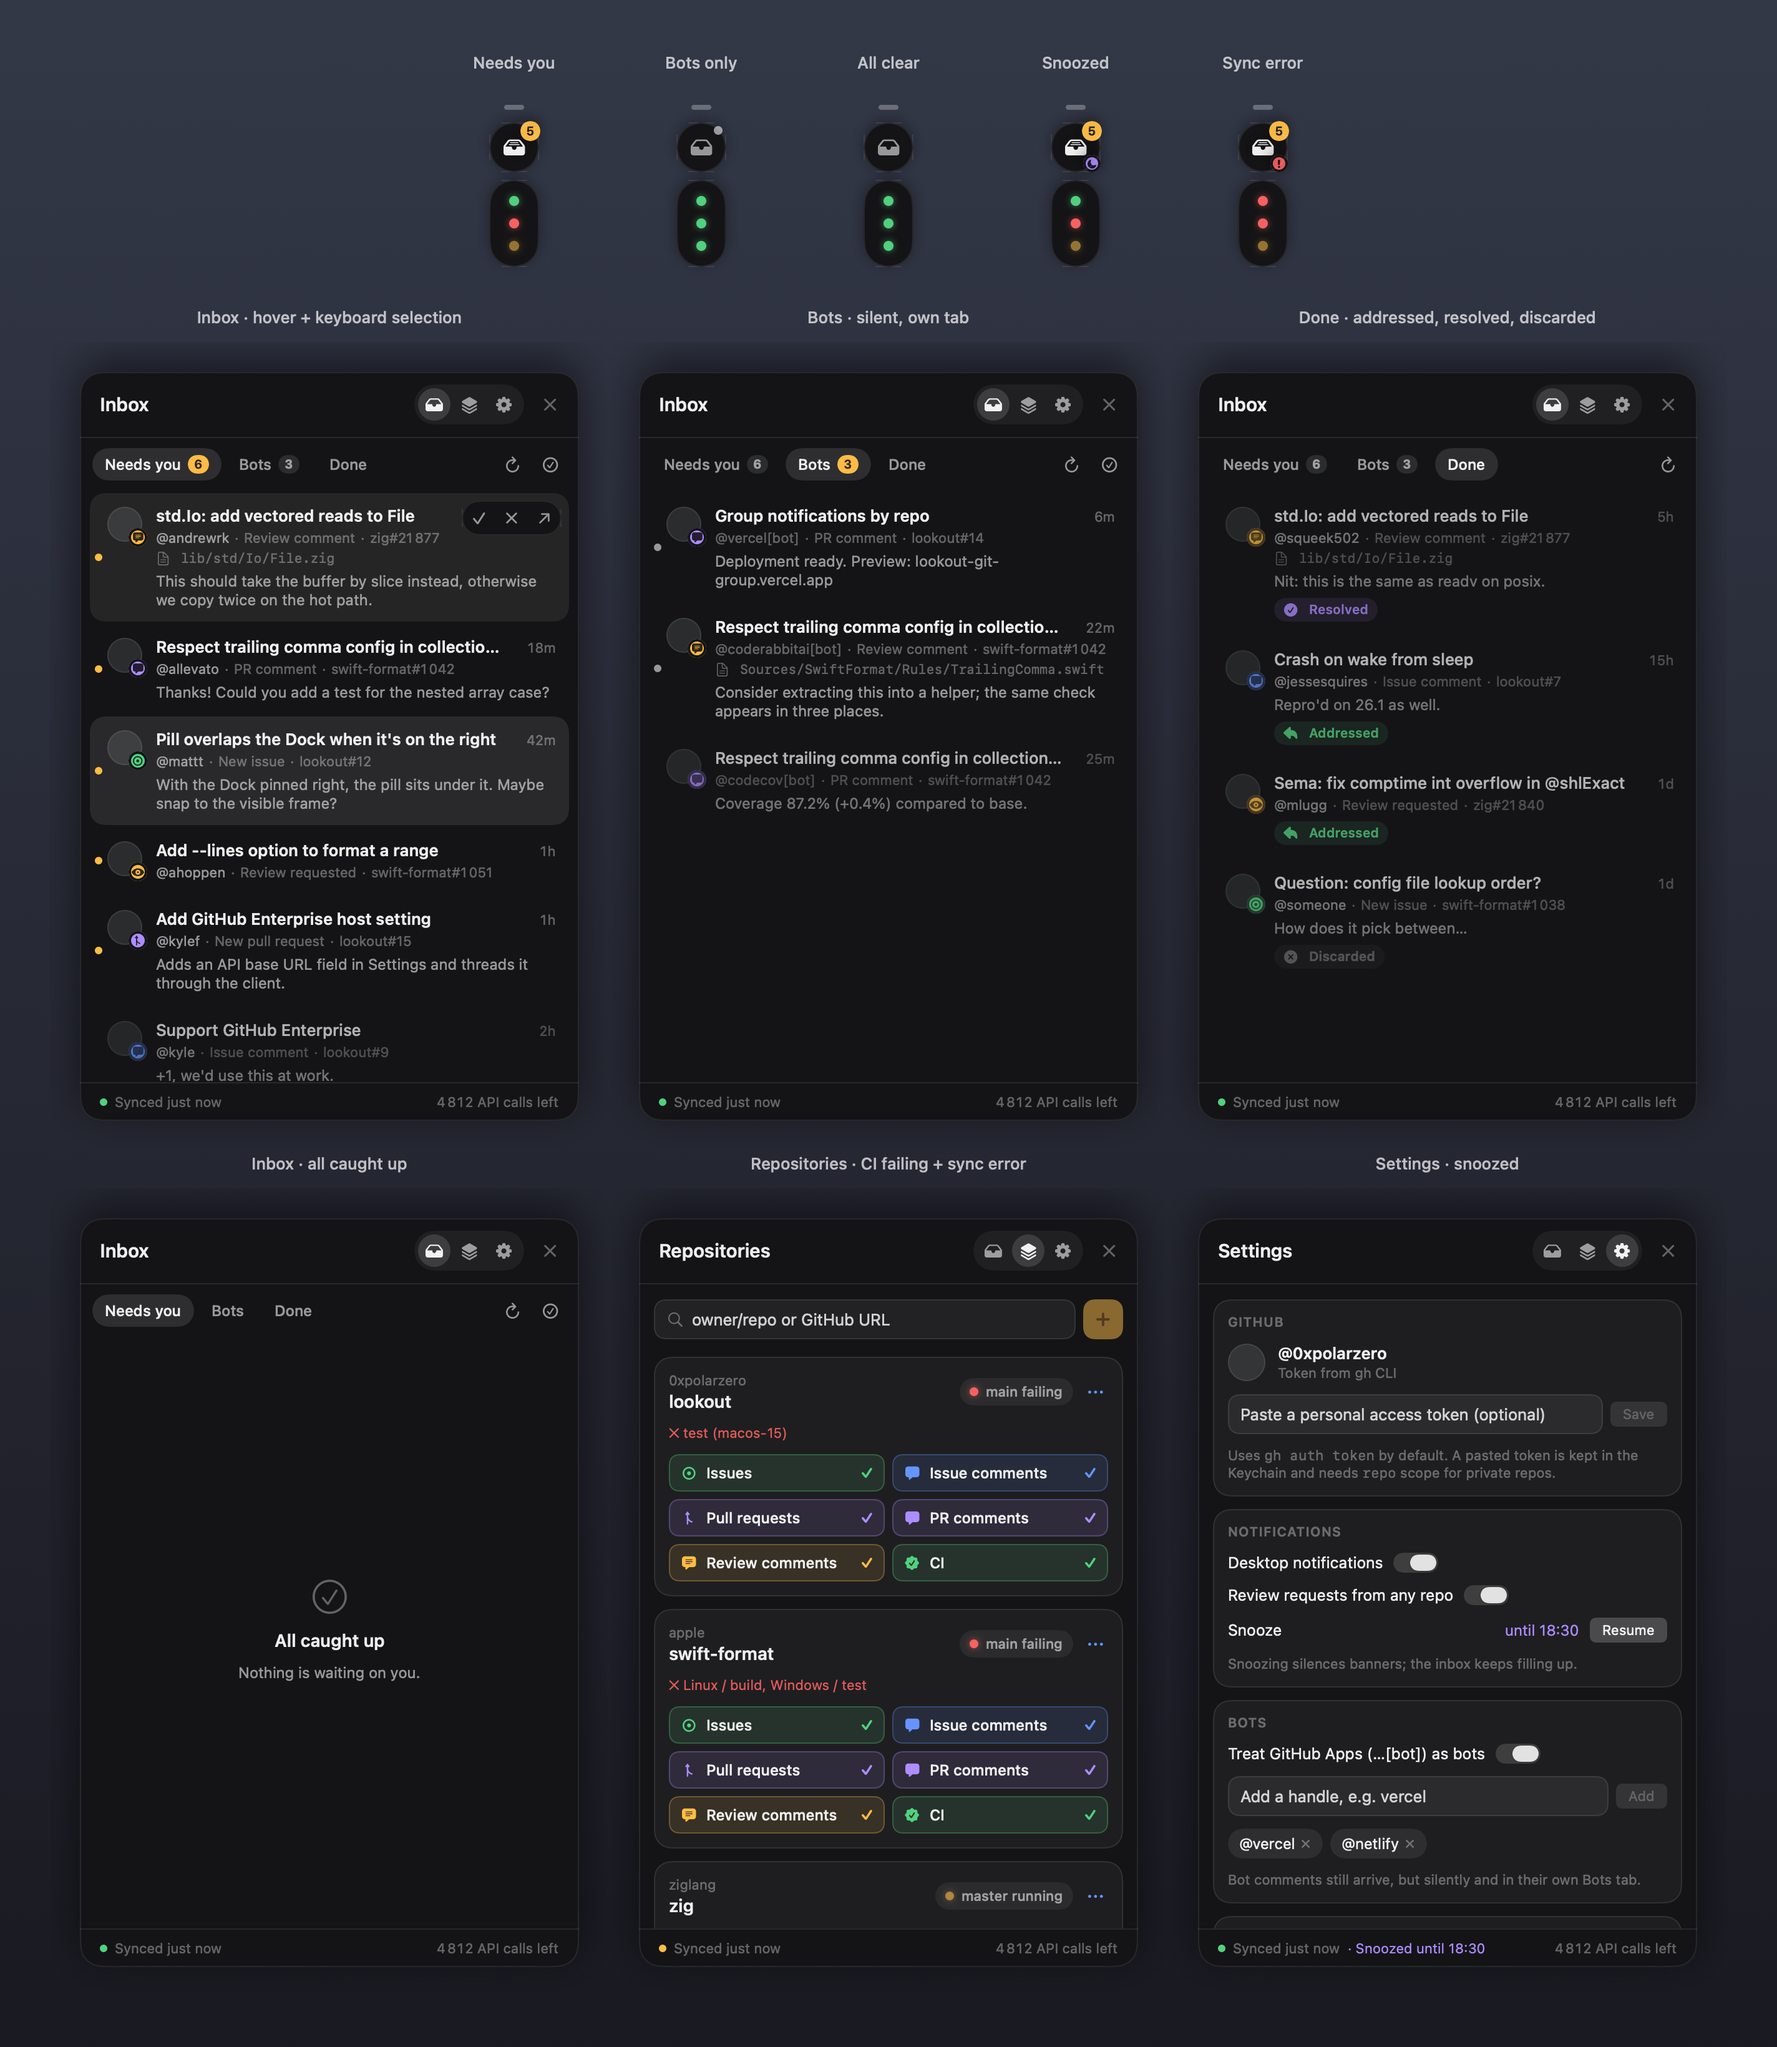
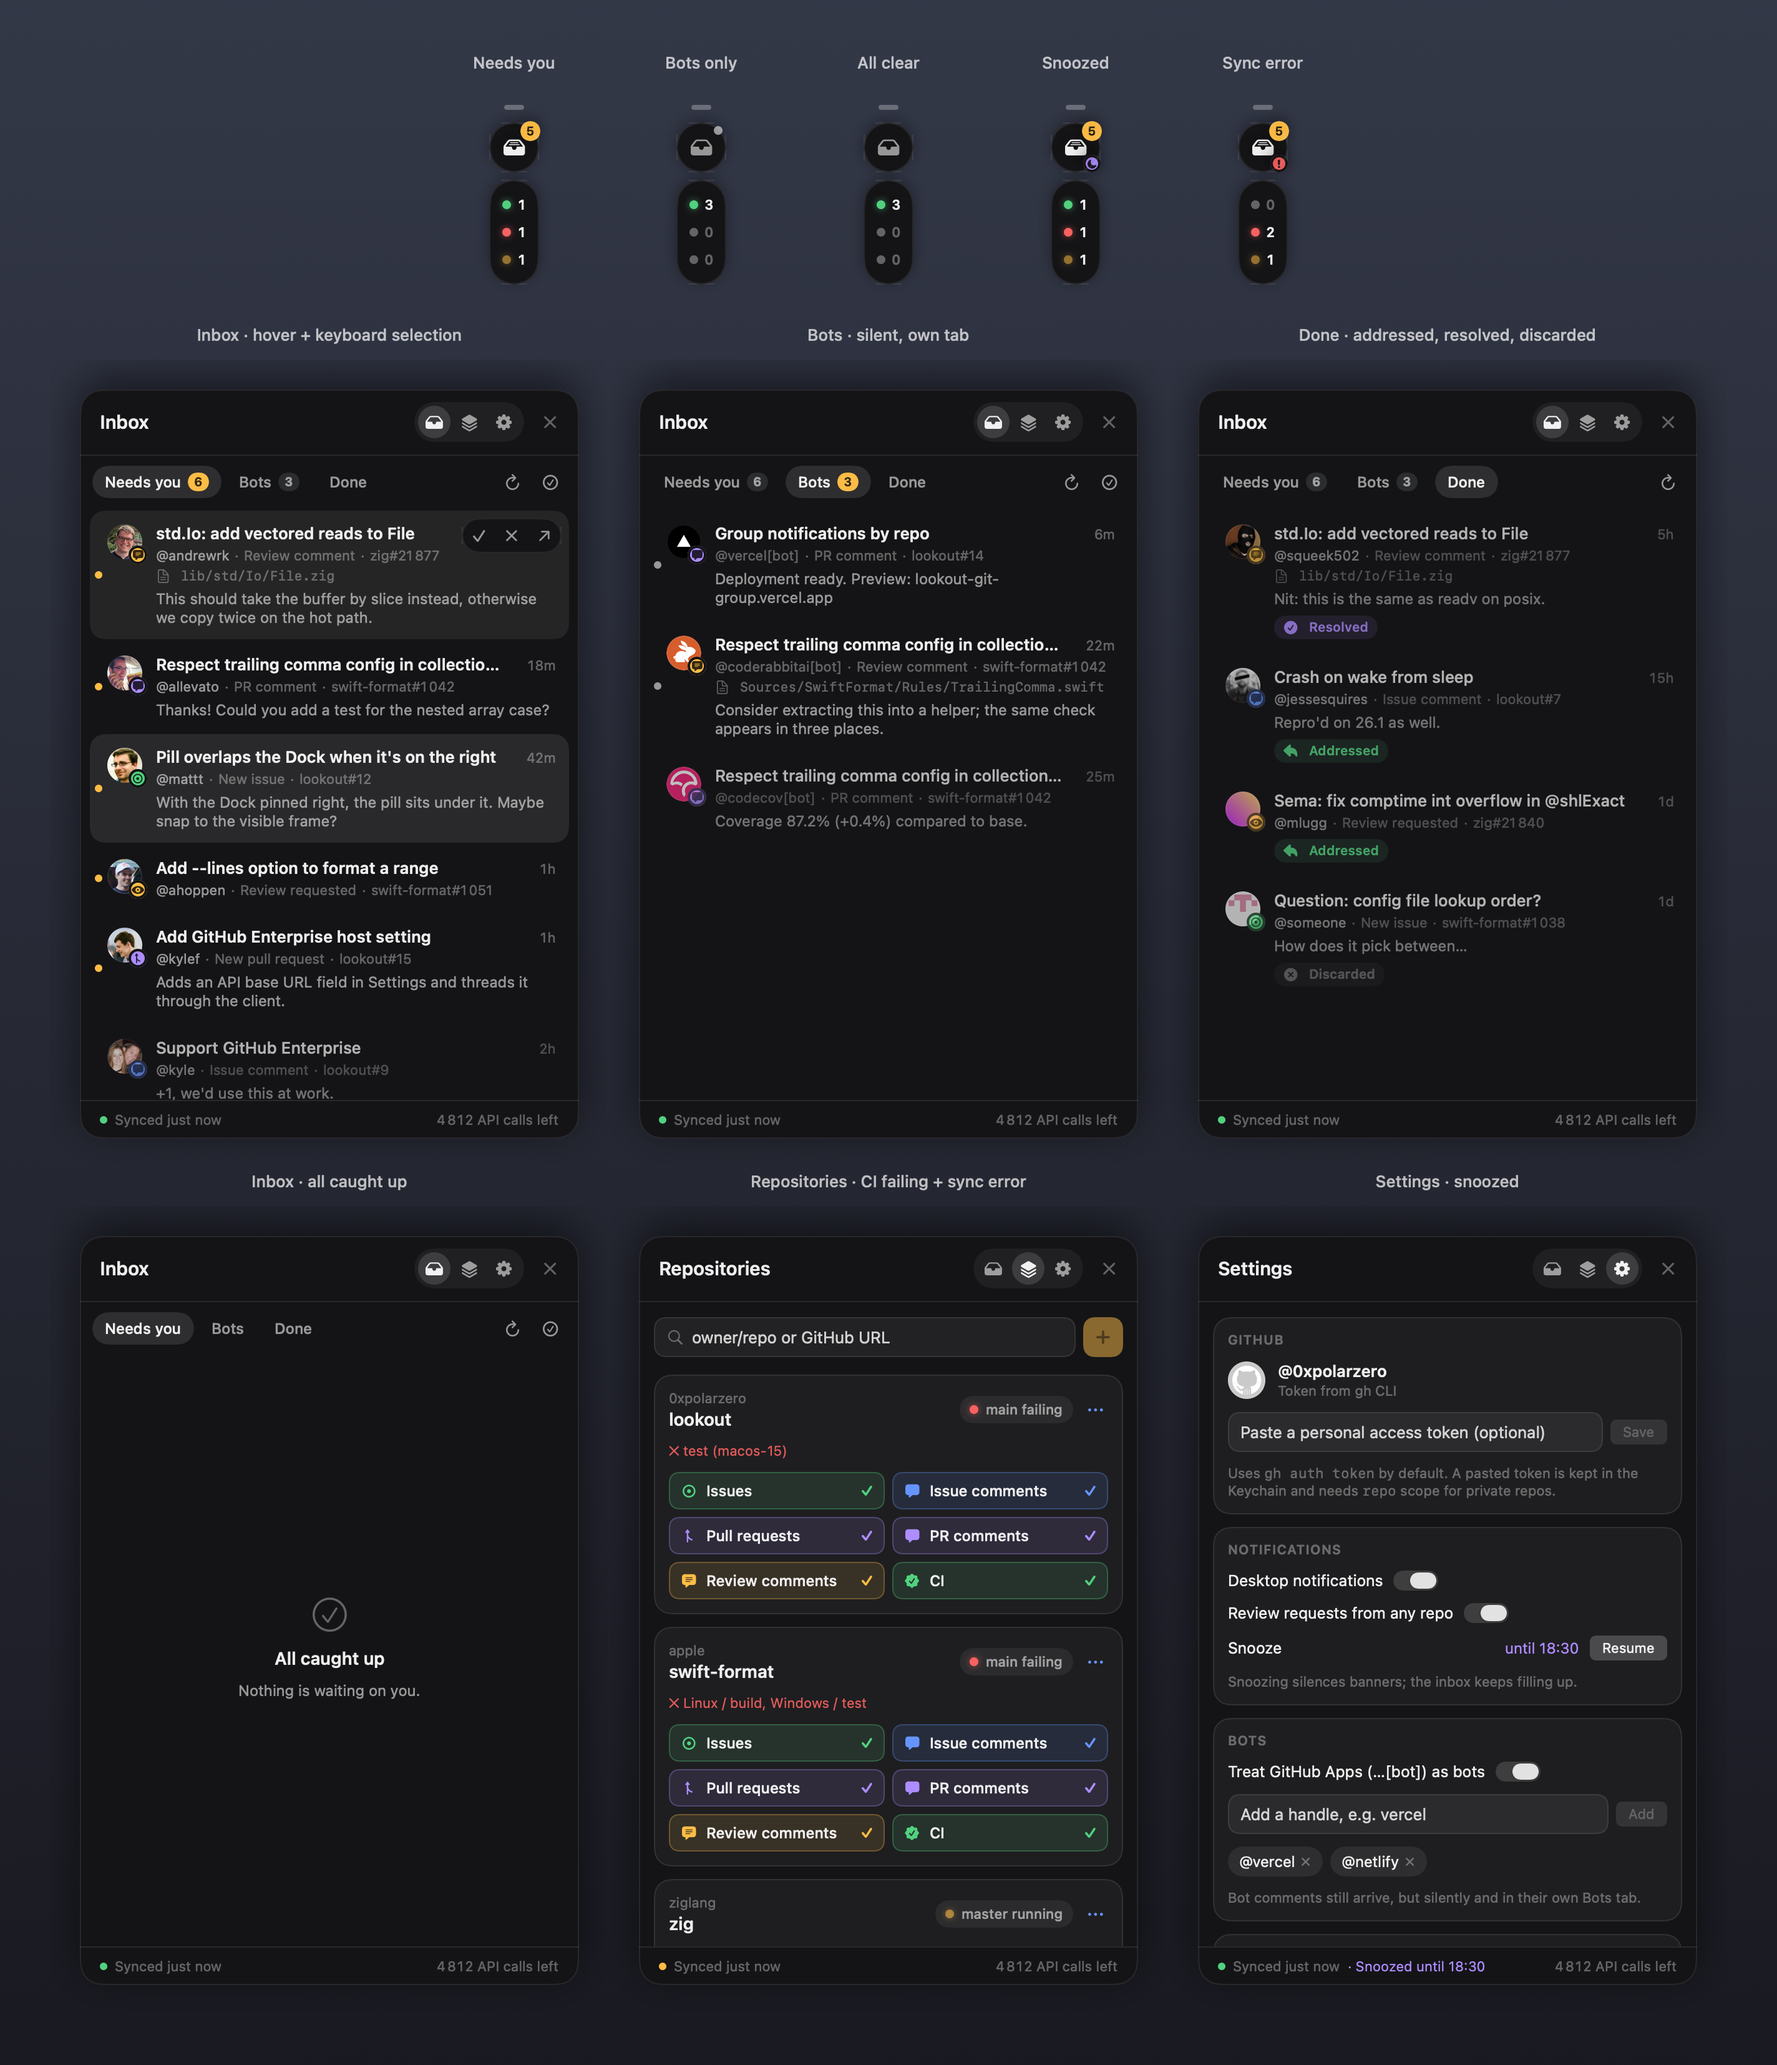
feat: Pill: CI as passing/failing/running counts instead of one dot per repo

diff --git a/Sources/Lookout/PillView.swift b/Sources/Lookout/PillView.swift
@@ -15,12 +15,9 @@ struct PillView: View {
             }
             if !store.ciRepos.isEmpty {
                 group {
-                    VStack(spacing: 8) {
-                        ForEach(store.ciRepos) { repo in
-                            let status = store.ci[repo.fullName]
-                            CIDot(state: status?.state ?? .none)
-                                .frame(width: 32, height: 10)
-                                .help("\(repo.fullName) · \(status?.branch ?? "main") \(status?.state.label ?? "…")")
+                    VStack(spacing: 6) {
+                        ForEach([CIState.success, .failure, .pending], id: \.self) { state in
+                            ciCount(state)
                         }
                     }
                     .padding(.vertical, 8)
@@ -90,6 +87,20 @@ struct PillView: View {
         }
         .overlay(alignment: .bottomTrailing) { statusBadge.offset(x: 4, y: 4) }
         .animation(.spring(duration: 0.3), value: unread)
+    }
+
+    /// One row per CI state with the number of repos in it; hover lists them.
+    private func ciCount(_ state: CIState) -> some View {
+        let repos = store.ciRepos(in: state)
+        let names = repos.map { "\($0.fullName) (\(store.ci[$0.fullName]?.branch ?? "main"))" }
+        return HStack(spacing: 5) {
+            CIDot(state: repos.isEmpty ? .none : state, size: 7)
+            Text("\(repos.count)")
+                .font(.system(size: 11, weight: .semibold).monospacedDigit())
+                .foregroundStyle(repos.isEmpty ? Theme.tertiary : Theme.text)
+        }
+        .frame(width: 32, height: 16)
+        .help(repos.isEmpty ? "No repos \(state.label)" : "\(state.label.capitalized) on main:\n" + names.joined(separator: "\n"))
     }
 
     /// Settings live in the panel; the pill only surfaces problems and snooze.

diff --git a/Sources/Lookout/Store.swift b/Sources/Lookout/Store.swift
@@ -95,6 +95,10 @@ final class Store {
     var isSnoozed: Bool { (settings.snoozeUntil ?? .distantPast) > Date() }
     var ciRepos: [RepoConfig] { repos.filter { $0.events.contains(.ciMain) } }
 
+    func ciRepos(in state: CIState) -> [RepoConfig] {
+        ciRepos.filter { ci[$0.fullName]?.state == state }
+    }
+
     func isLowPriority(_ item: InboxItem) -> Bool {
         let author = item.author.lowercased()
         if settings.treatAppsAsBots && item.authorIsApp { return true }

diff --git a/README.md b/README.md
@@ -12,7 +12,7 @@ Requires macOS 14+. Auth comes from `gh auth token` (or a token pasted in Settin
 
 ## Using it
 
-- **Pill**: inbox (amber badge = unread items that need you, grey dot = only bots; a purple moon means snoozed, a red mark means a sync error), and one CI dot per repo. Settings are in the panel. Drag the top handle to move it; it snaps to the nearest edge. `⌃⌥Space` toggles the panel.
+- **Pill**: inbox (amber badge = unread items that need you, grey dot = only bots; a purple moon means snoozed, a red mark means a sync error), and CI counts: how many repos are passing (green), failing (red) and running (amber) on main; hover a row to see which. Settings are in the panel. Drag the top handle to move it; it snaps to the nearest edge. `⌃⌥Space` toggles the panel.
 - **Repositories**: add `owner/repo` (suggestions come from repos you own or are involved in) and toggle: issues, issue comments, PRs, PR comments, review comments, CI on the default branch.
 - **Inbox**: *Needs you* / *Bots* / *Done*. Hover a row to mark it read, discard it, or open it. Keys: ↑↓ to move, Return to open, Space to toggle read, ⌫ to discard or restore, Esc to close.
 - **States**: unread → read (you saw it) → **addressed** (you replied after it, so this happens automatically) → **resolved** (review thread resolved, synced through GraphQL). Discarded items go to Done.
